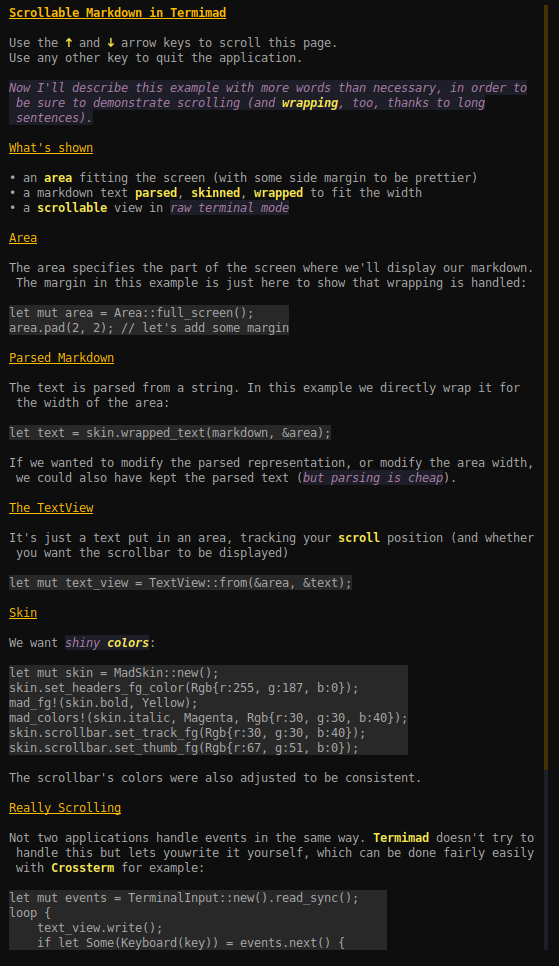
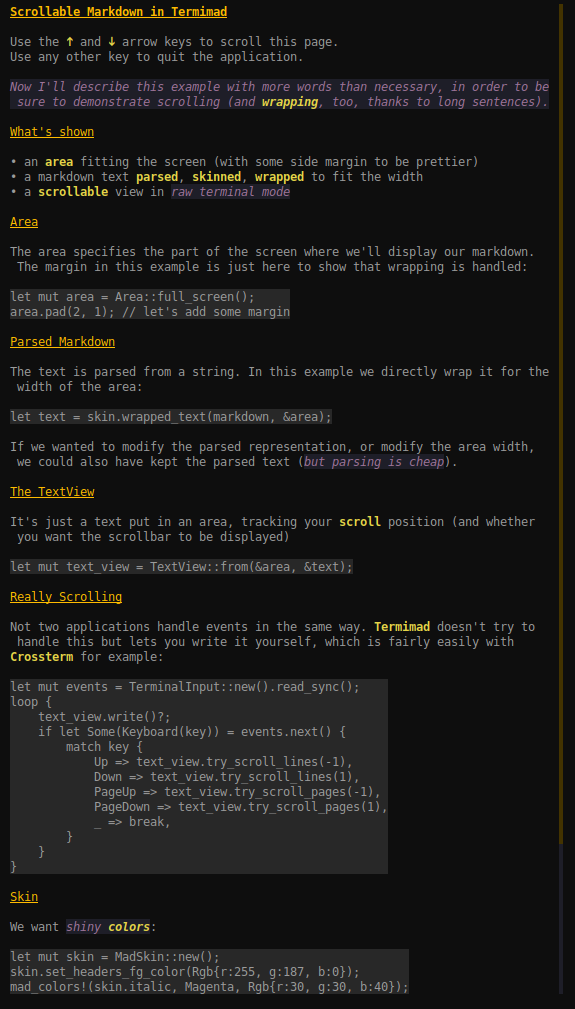
remove all hidden unwrap

diff --git a/examples/scrollable/main.rs b/examples/scrollable/main.rs
@@ -8,13 +8,13 @@ fn show_scrollable(skin: &MadSkin, markdown: &str) -> io::Result<()> {
     let cursor = TerminalCursor::new();
     cursor.hide()?;
     let mut area = Area::full_screen();
-    area.pad(2, 2); // let's add some margin
+    area.pad(2, 1); // let's add some margin
     let text = skin.wrapped_text(markdown, &area);
     let mut text_view = TextView::from(&area, &text);
     text_view.show_scrollbar = true; // this is default anyway
     let mut events = TerminalInput::new().read_sync();
     loop {
-        text_view.write();
+        text_view.write()?;
         if let Some(Keyboard(key)) = events.next() {
             match key {
                 Up => text_view.try_scroll_lines(-1),
@@ -63,7 +63,7 @@ Use any other key to quit the application.
 The area specifies the part of the screen where we'll display our markdown. The margin in this example is just here to show that wrapping is handled:
 
     let mut area = Area::full_screen();
-    area.pad(2, 2); // let's add some margin
+    area.pad(2, 1); // let's add some margin
 
 ## Parsed Markdown
 
@@ -79,26 +79,13 @@ It's just a text put in an area, tracking your **scroll** position (and whether 
 
     let mut text_view = TextView::from(&area, &text);
 
-## Skin
-
-We want *shiny **colors***:
-
-    let mut skin = MadSkin::new();
-    skin.set_headers_fg_color(Rgb{r:255, g:187, b:0});
-    mad_fg!(skin.bold, Yellow);
-    mad_colors!(skin.italic, Magenta, Rgb{r:30, g:30, b:40});
-    skin.scrollbar.set_track_fg(Rgb{r:30, g:30, b:40});
-    skin.scrollbar.set_thumb_fg(Rgb{r:67, g:51, b:0});
-
-The scrollbar's colors were also adjusted to be consistent.
-
 ## Really Scrolling
 
-Not two applications handle events in the same way. **Termimad** doesn't try to handle this but lets youwrite it yourself, which can be done fairly easily with **Crossterm** for example:
+Not two applications handle events in the same way. **Termimad** doesn't try to handle this but lets you write it yourself, which is fairly easily with **Crossterm** for example:
 
     let mut events = TerminalInput::new().read_sync();
     loop {
-        text_view.write();
+        text_view.write()?;
         if let Some(Keyboard(key)) = events.next() {
             match key {
                 Up => text_view.try_scroll_lines(-1),
@@ -109,6 +96,19 @@ Not two applications handle events in the same way. **Termimad** doesn't try to 
             }
         }
     }
+
+## Skin
+
+We want *shiny **colors***:
+
+    let mut skin = MadSkin::new();
+    skin.set_headers_fg_color(Rgb{r:255, g:187, b:0});
+    mad_colors!(skin.italic, Magenta, Rgb{r:30, g:30, b:40});
+    mad_fg!(skin.bold, Yellow);
+    skin.scrollbar.set_track_fg(Rgb{r:30, g:30, b:40});
+    skin.scrollbar.set_thumb_fg(Rgb{r:67, g:51, b:0});
+
+The scrollbar's colors were also adjusted to be consistent.
 
 ## Usage
 

diff --git a/src/text_view.rs b/src/text_view.rs
@@ -1,4 +1,5 @@
 use std::fmt;
+use std::io;
 use crossterm::{self, TerminalCursor, Terminal, ClearType};
 use minimad::Line;
 
@@ -45,15 +46,15 @@ impl<'a, 't> TextView<'a, 't> {
         Some((sc as u16, (sc + sbh + 1).min(i32::from(self.area.height+1)) as u16))
     }
     /// display the text in the area, taking the scroll into account.
-    pub fn write(&self) {
+    pub fn write(&self) -> io::Result<()> {
         let terminal = Terminal::new();
         let cursor = TerminalCursor::new();
         let scrollbar = self.scrollbar();
         let sx = self.area.left + self.area.width;
         let mut i = self.scroll as usize;
         for y in 0..=self.area.height {
-            cursor.goto(self.area.left, self.area.top+y).unwrap();
-            terminal.clear(ClearType::UntilNewLine);
+            cursor.goto(self.area.left, self.area.top+y)?;
+            terminal.clear(ClearType::UntilNewLine)?;
             if i < self.text.text.lines.len() {
                 let fl = DisplayableLine::new(
                     &self.text.skin,
@@ -63,7 +64,7 @@ impl<'a, 't> TextView<'a, 't> {
                 i += 1;
             }
             if let Some((sctop, scbottom)) = scrollbar {
-                cursor.goto(sx, self.area.top+y).unwrap();
+                cursor.goto(sx, self.area.top+y)?;
                 if sctop <= y && y <= scbottom {
                     println!("{}", self.text.skin.scrollbar.thumb);
                 } else {
@@ -71,6 +72,7 @@ impl<'a, 't> TextView<'a, 't> {
                 }
             }
         }
+        Ok(())
     }
     /// set the scroll amount.
     /// lines_count can be negative

diff --git a/src/skin.rs b/src/skin.rs
@@ -228,7 +228,7 @@ fn hard_wrap_line<'s>(src_line: &Line<'s>, width: usize) -> Vec<Line<'s>> {
             ll = 0;
         }
         let mut c_start = 0;
-        let mut last_space: Option<usize> = None;
+        let mut last_space: Option<usize> = Some(0);
         for (idx, char) in s.char_indices() {
             ll += 1;
             if char.is_whitespace() {
@@ -241,7 +241,9 @@ fn hard_wrap_line<'s>(src_line: &Line<'s>, width: usize) -> Vec<Line<'s>> {
                         cut = ls;
                     }
                 }
-                dst_line.compounds.push(sc.sub(c_start, cut));
+                if cut > c_start {
+                    dst_line.compounds.push(sc.sub(c_start, cut));
+                }
                 let new_dst_line = follow_up_line(&dst_line);
                 lines.push(dst_line);
                 dst_line = new_dst_line;

diff --git a/src/text.rs b/src/text.rs
@@ -43,12 +43,12 @@ impl<'s, 't> FormattedText<'s, 't> {
                         });
                     }
                 }
-            } else if current.is_some() {
-                blocks.push(current.take().unwrap());
+            } else if let Some(c) = current.take() {
+                blocks.push(c);
             }
         }
-        if current.is_some() {
-            blocks.push(current.take().unwrap());
+        if let Some(c) = current.take() {
+            blocks.push(c);
         }
         blocks
     }

diff --git a/README.md b/README.md
@@ -61,5 +61,7 @@ Result:
 
 ![scrollable](doc/scrollable.png)
 
-The whole code for this example is in examples/scrollable.
+The code for this example is in examples/scrollable. To read the whole text just do
+
+    cargo run --example scrollable
 
